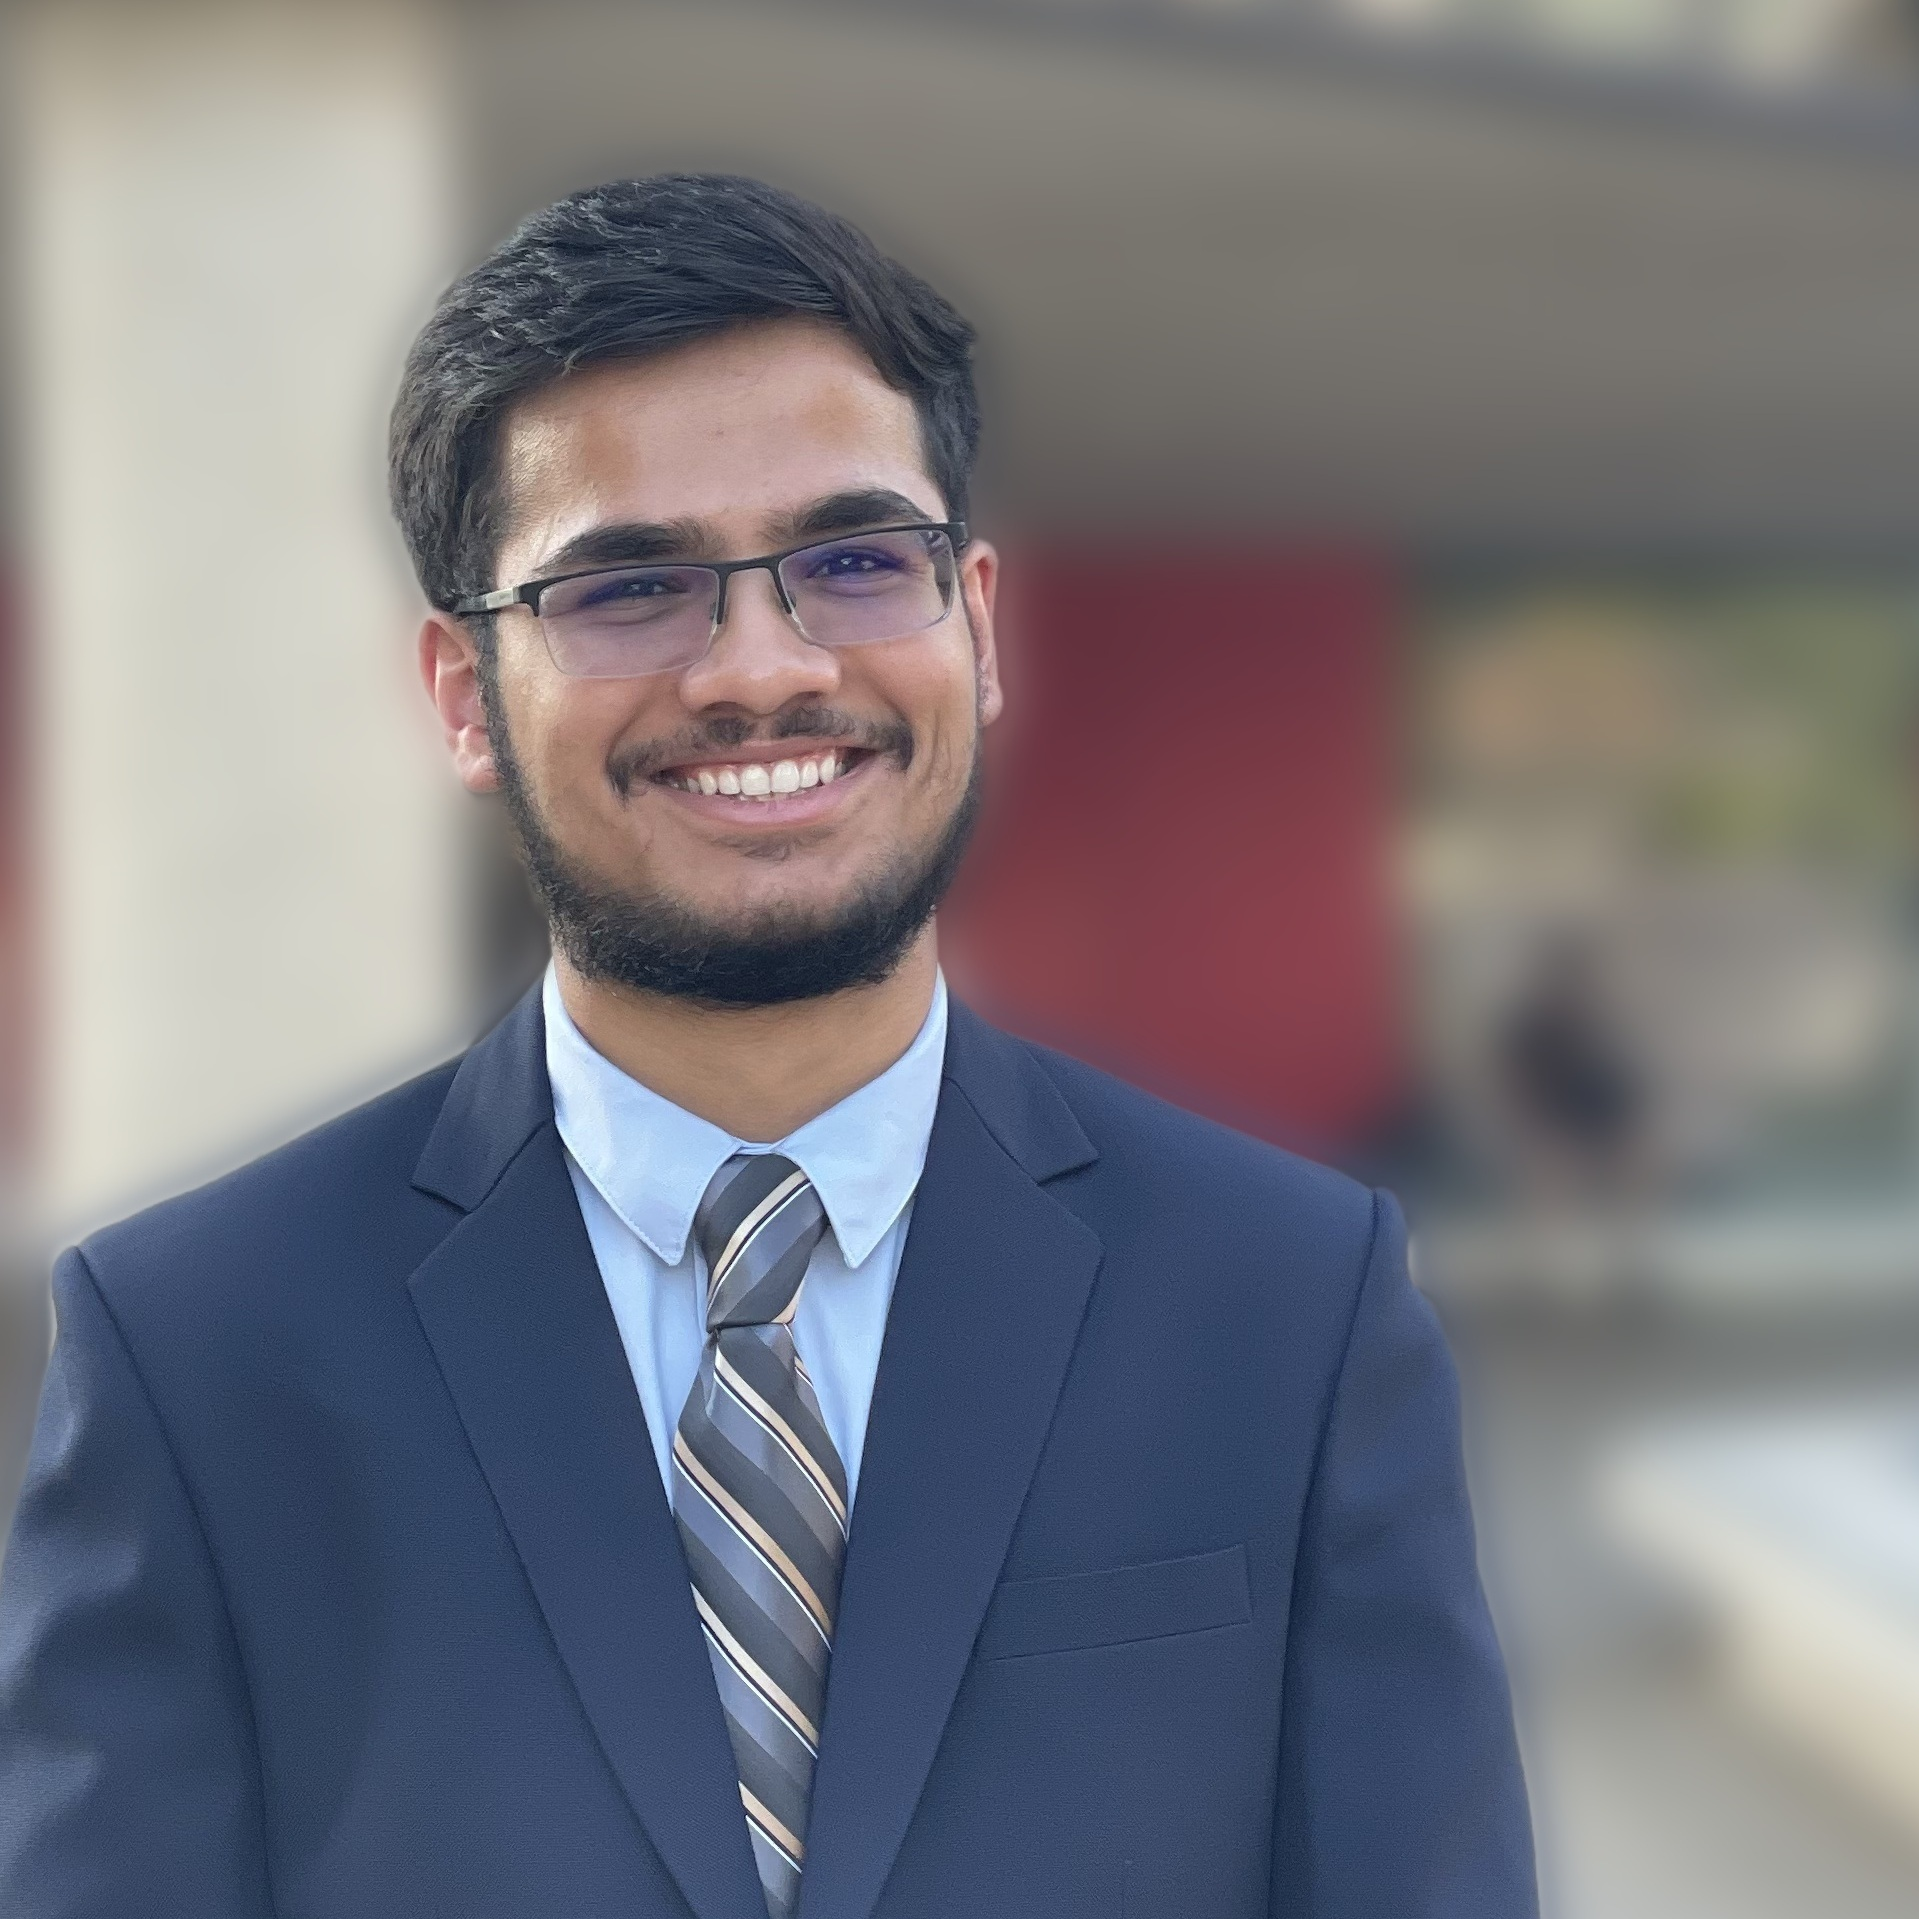
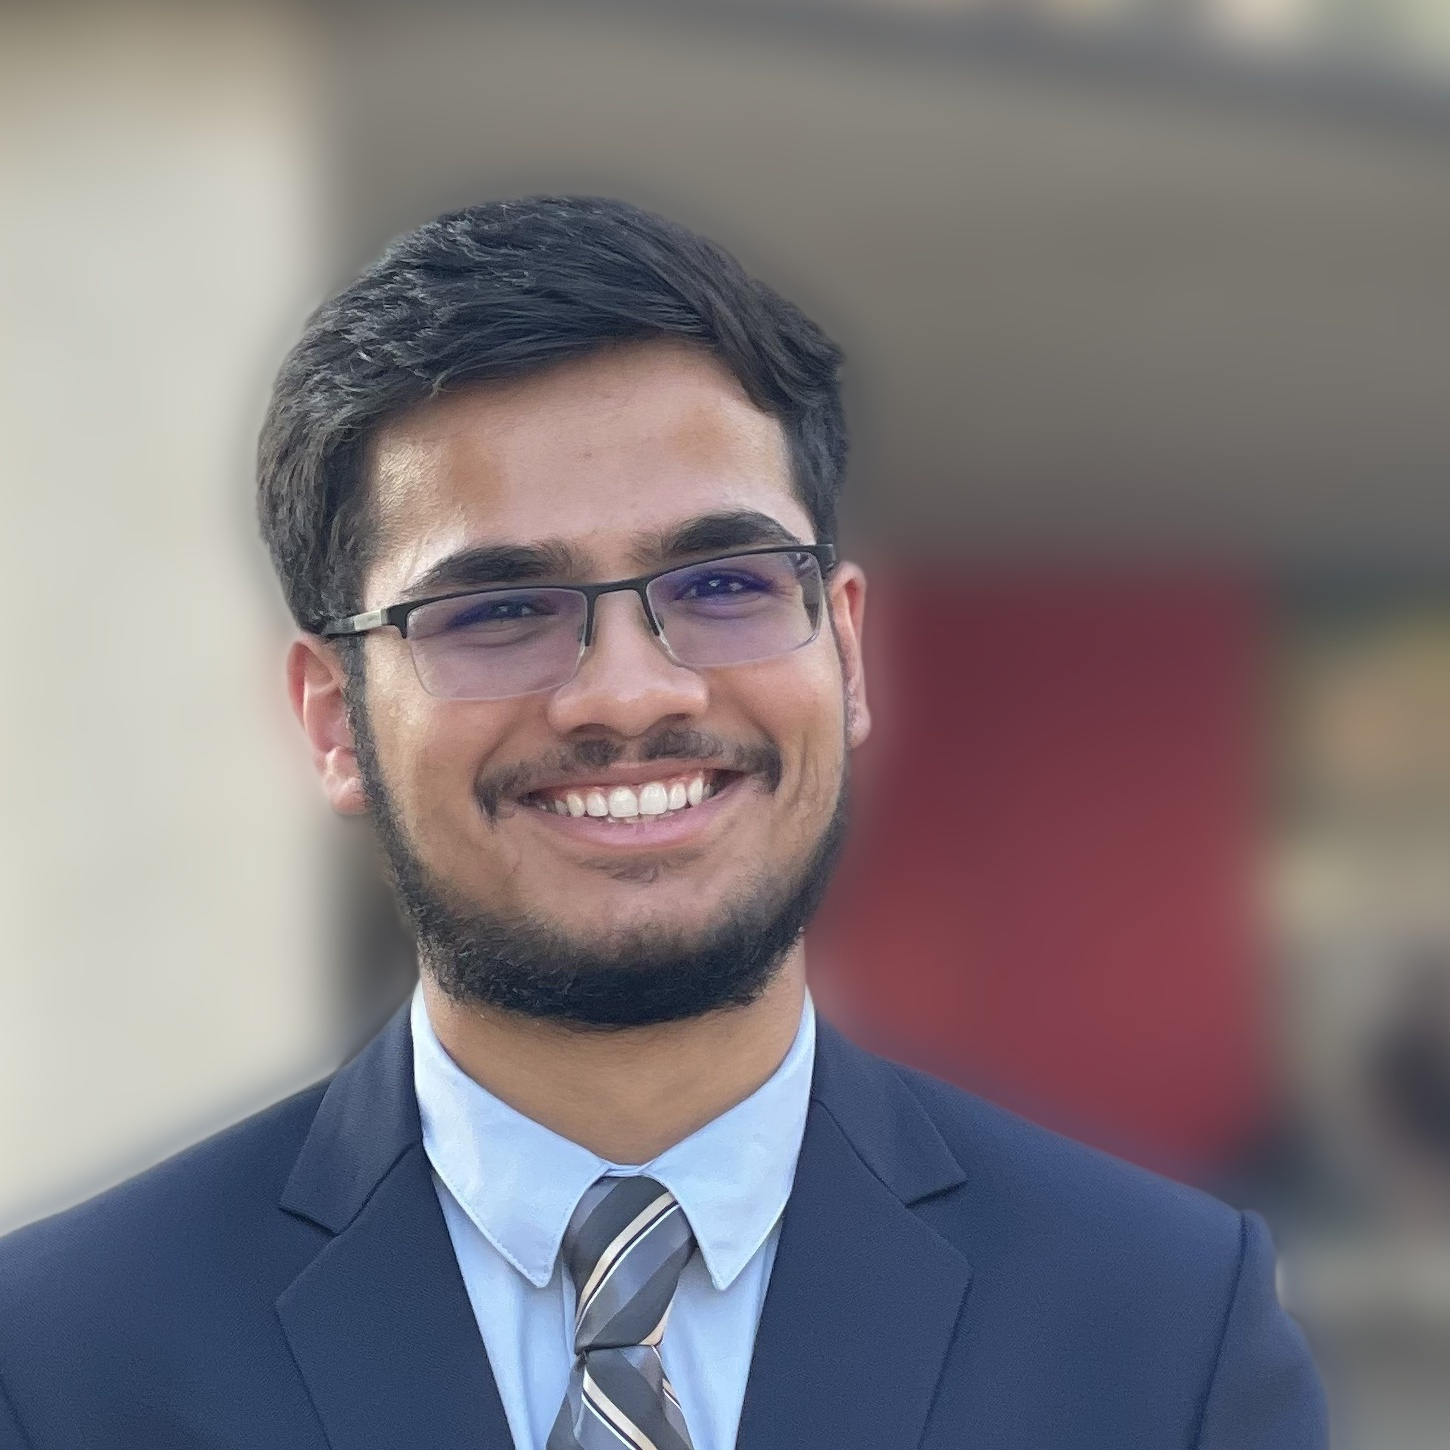
Crop headshot tighter on the face, add a second larger copy to Contact section
The nav avatar was too small to show the face clearly with the
original head-and-shoulders crop. Also adds the headshot next to the
Contact heading, giving it one more appearance without touching the
hero section.

diff --git a/src/app/page.tsx b/src/app/page.tsx
@@ -17,7 +17,7 @@ export default function Home() {
             <img
               src="/photos/headshot.jpg"
               alt="Taha Arab"
-              className="h-8 w-8 rounded-full object-cover border border-neutral-700"
+              className="h-10 w-10 rounded-full object-cover border border-neutral-700"
             />
             <span className="text-sm font-medium tracking-widest uppercase text-neutral-400">
               Taha Arab
@@ -219,7 +219,15 @@ export default function Home() {
       {/* Contact */}
       <section id="contact" className="mx-auto max-w-5xl px-6 md:px-8 py-16 md:py-24 border-t border-neutral-900">
         <Reveal>
-          <SectionHeading eyebrow="Contact" title="Let's build something." />
+          <div className="flex items-center gap-5">
+            {/* eslint-disable-next-line @next/next/no-img-element */}
+            <img
+              src="/photos/headshot.jpg"
+              alt="Taha Arab"
+              className="h-16 w-16 sm:h-20 sm:w-20 rounded-full object-cover border border-neutral-700 shrink-0"
+            />
+            <SectionHeading eyebrow="Contact" title="Let's build something." />
+          </div>
           <p className="mt-4 text-neutral-400 max-w-2xl leading-relaxed">
             Open to relocation and eligible for U.S. government/defense contract positions.
             Reach out directly, or ask my digital twin in the chat widget below.
